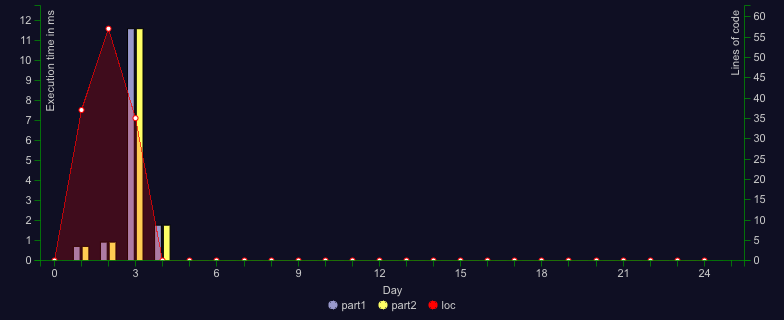
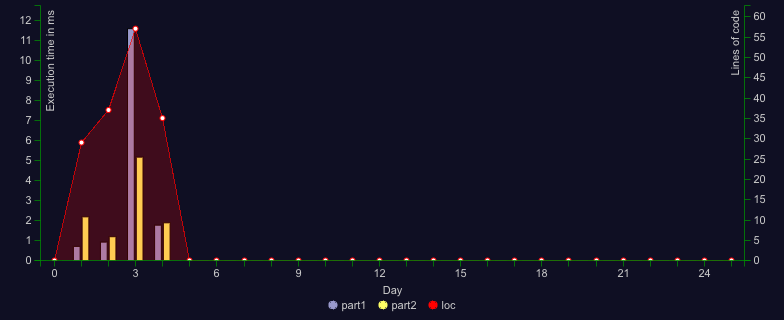
fix: chart data

Changed region(s): [[0.0612, 0.0625, 0.2449, 0.8125]]

diff --git a/scripts/utils.ts b/scripts/utils.ts
@@ -182,21 +182,23 @@ async function renderChart(options = {}, path = 'chart.png') {
 export async function generateChart() {
   const submissions = await readSubmissionsFile()
 
-  const loc = async (day: number) => {
-    const source = await readDayFile(day)
-    if (!source) return 0
-    return takeWhile((line) => !/(p1ex|p2ex)/.test(line), source.split('\n')).length
-  }
-  const locs = await Promise.all(range(1, 26).map((day) => loc(day)))
+  const locs = await Promise.all(
+    range(1, 26).map(async (day) => {
+      const source = await readDayFile(day)
+      if (!source) return 0
+      return takeWhile((line) => !/(p1ex|p2ex)/.test(line), source.split('\n')).length
+    }),
+  )
+  const loc = (day: number) => locs[day - 1]
   const time1 = (day: number) => submissions[day - 1]?.part1?.time ?? 0
-  const time2 = (day: number) => submissions[day - 1]?.part1?.time ?? 0
+  const time2 = (day: number) => submissions[day - 1]?.part2?.time ?? 0
 
   const options = {
     data: {
       columns: [
-        ['part1', 0, ...range(1, 26).map((day) => time1(day))],
-        ['part2', 0, ...range(1, 26).map((day) => time2(day))],
-        ['loc', 0, ...range(1, 26).map((day) => locs[day])],
+        ['part1', 0, ...range(1, 26).map(time1)],
+        ['part2', 0, ...range(1, 26).map(time2)],
+        ['loc', 0, ...range(1, 26).map(loc)],
       ],
       types: {
         loc: 'area',
@@ -230,7 +232,7 @@ export async function generateChart() {
       padding: 2,
       width: {
         ratio: 0.5,
-        max: 30,
+        max: 26,
       },
     },
   }

diff --git a/day-03/index.ts b/day-03/index.ts
@@ -57,7 +57,7 @@ export const p2 = ({ numbers, symbols }: ReturnType<typeof parse>) =>
 
 export const p1ex: Examples = [
   {
-    expected: 43610,
+    expected: 4361,
     input: `
       467..114..
       ...*......
